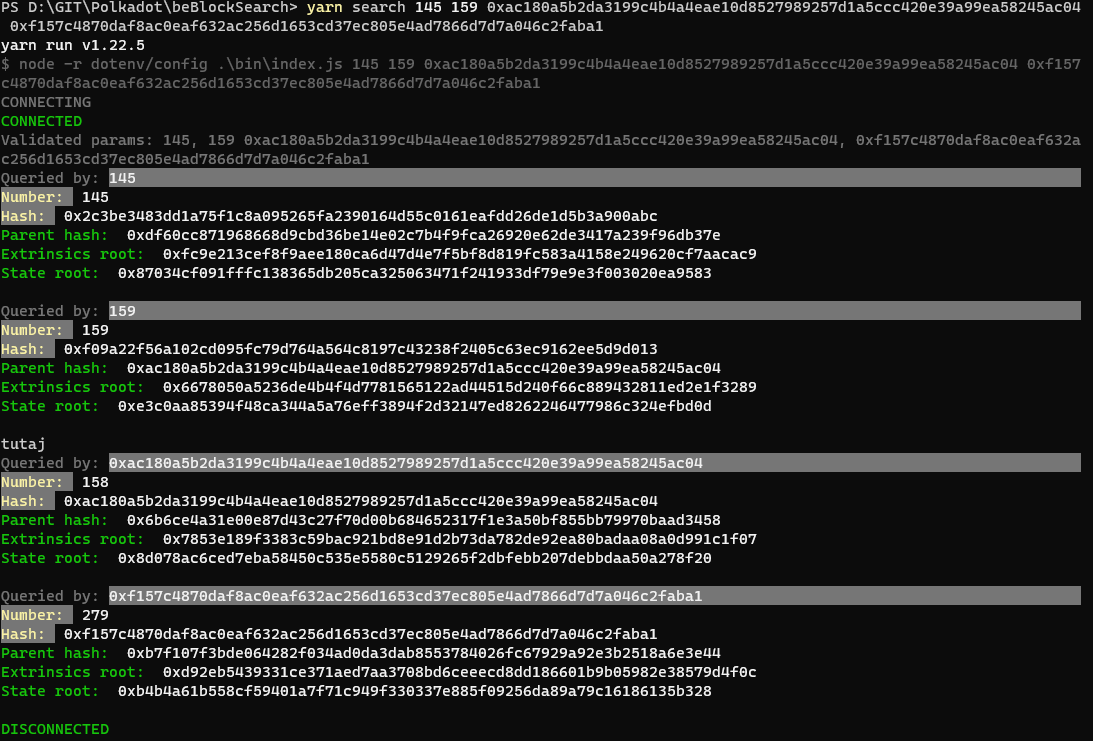
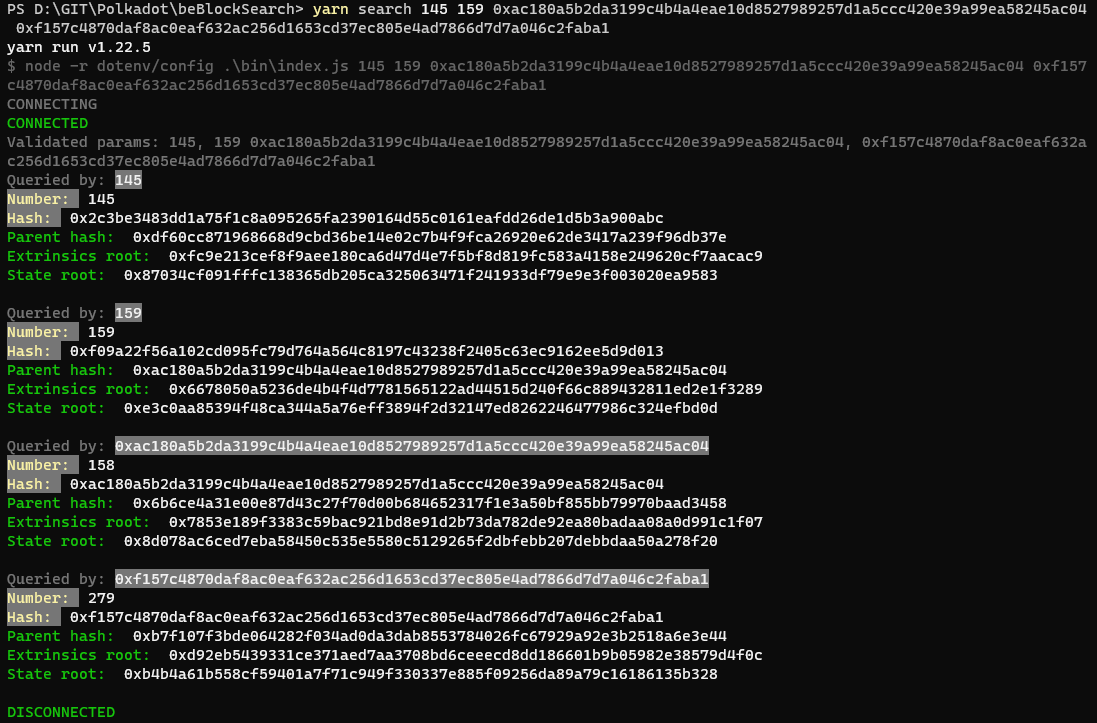
changes to photo and logging message

Changed region(s): [[0.0, 0.0, 0.9954, 0.9433], [0.0, 0.9737, 0.1244, 1.0]]

diff --git a/api.ts b/api.ts
@@ -45,7 +45,7 @@ export const getBlockByNumber = async (
     // const unsub = await Api.query.system.number.multi(
     //     [...blockNumbers],
     //     (blockHash) => {
-    //         console.log("dupa", blockHash[0].toString());
+    //         console.log("debug", blockHash[0].toString());
 
     //         console.log(JSON.stringify(blockHash));
     //     },
@@ -61,7 +61,6 @@ export const getCurrentBlock = async (): Promise<Header> => {
 
 export const getBlockByHash = async (hashList: string[]): Promise<Header[]> => {
     let result: Header[] = [];
-    console.log("tutaj");
 
     for (let hash of hashList) {
         const res = await Api.rpc.chain.getBlock(hash);
